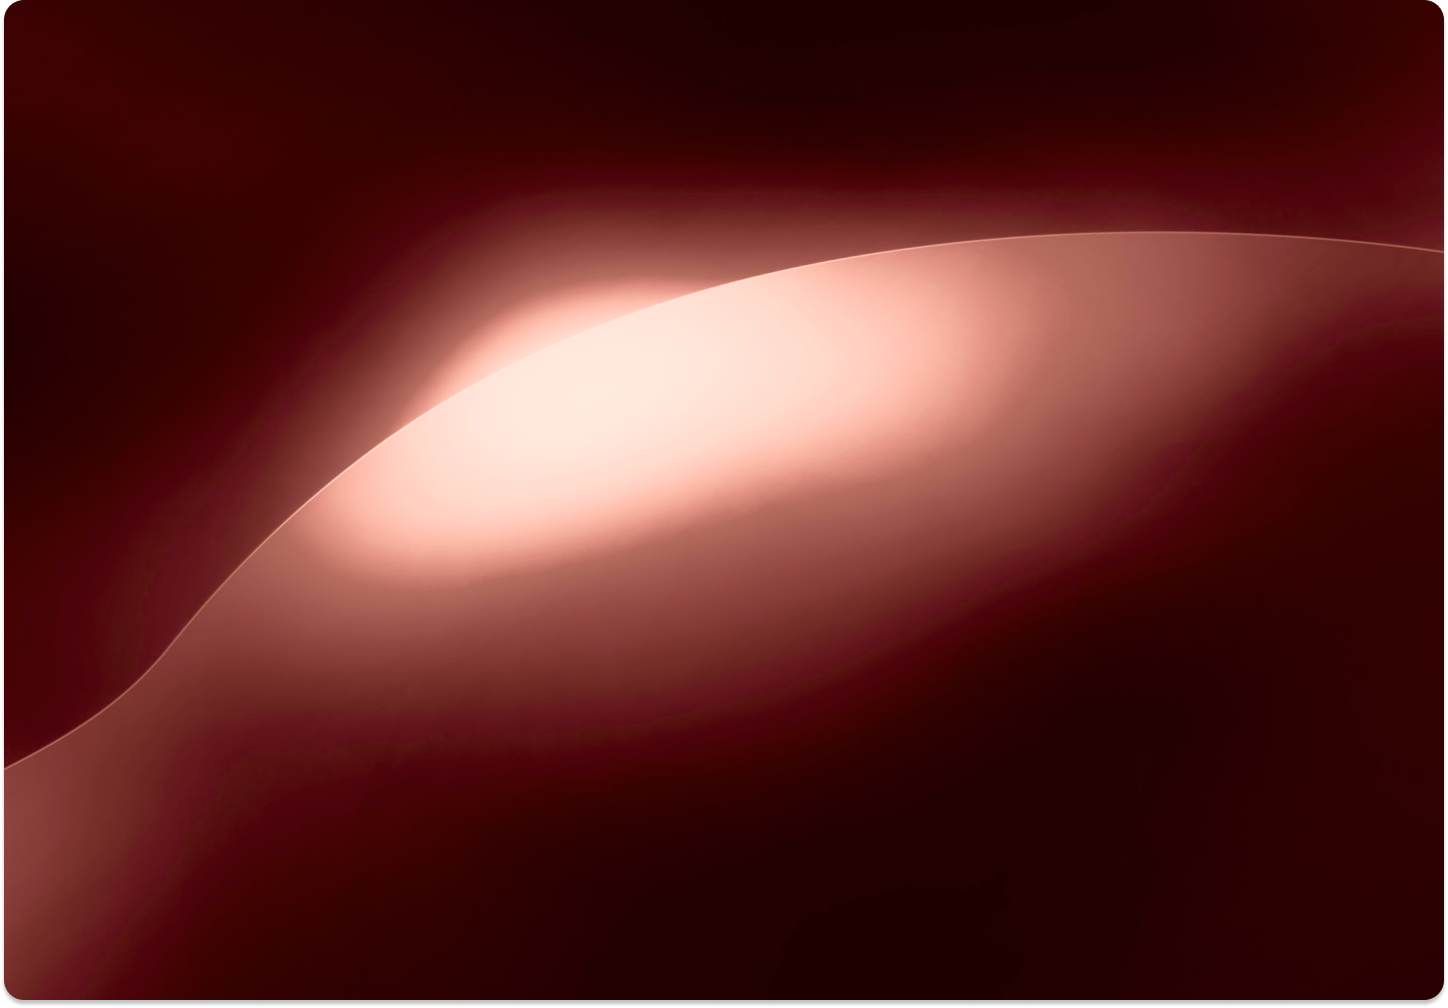
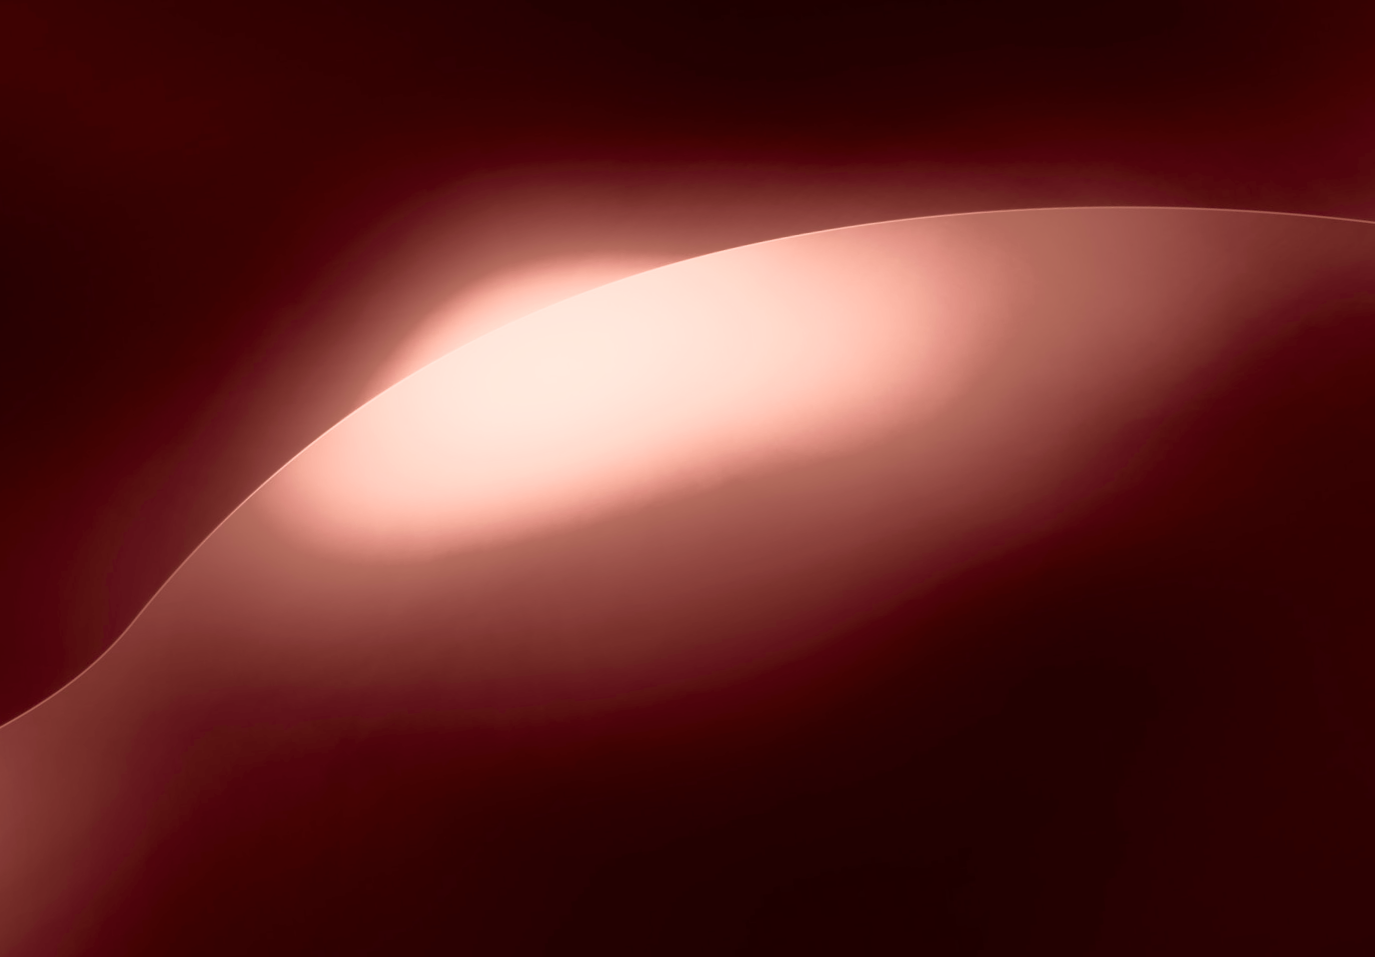
Main Menu layout

diff --git a/renderer/mainMenuWin/mainMenuWindow.html b/renderer/mainMenuWin/mainMenuWindow.html
@@ -3,7 +3,7 @@
 <head>
     <meta charset="UTF-8">
     <meta name="viewport" content="width=device-width, initial-scale=1.0">
-    <title>Document</title>
+    <title>Valorant Profiler</title>
 
     <link rel="stylesheet" href="./style.css">
     <script src="./renderer.js" defer></script>
@@ -14,9 +14,43 @@
 
 </head>
 <body>
-    <div class="drag-area"></div>
-    <div class="bg-container">
-        <img src="./imgs/bg-mm.png" alt="">
-    </div>
+    <nav>
+        <ul class="nav-items">
+            <li class="home-btn">
+                <svg width="32" height="32" viewBox="0 0 16 18" fill="none" xmlns="http://www.w3.org/2000/svg">
+                    <path d="M1.5 17.9995C1.08333 17.9995 0.729167 17.8537 0.4375 17.562C0.145833 17.2703 0 16.9162 0 16.4995V6.74951C0 6.51618 0.0541666 6.29118 0.1625 6.07451C0.270833 5.85784 0.416667 5.68284 0.6 5.54951L7.1 0.674512C7.23333 0.574512 7.375 0.499512 7.525 0.449512C7.675 0.399512 7.83333 0.374512 8 0.374512C8.16667 0.374512 8.325 0.399512 8.475 0.449512C8.625 0.499512 8.76667 0.574512 8.9 0.674512L15.4 5.54951C15.5833 5.68284 15.7292 5.85784 15.8375 6.07451C15.9458 6.29118 16 6.51618 16 6.74951V16.4995C16 16.9162 15.8542 17.2703 15.5625 17.562C15.2708 17.8537 14.9167 17.9995 14.5 17.9995H10V10.9995H6V17.9995H1.5Z" fill="white"/>
+                </svg>                    
+            </li>
+            <li class="profile-btn">
+                <svg width="32" height="32" viewBox="0 0 16 16" fill="none" xmlns="http://www.w3.org/2000/svg">
+                    <path d="M8 7.97559C6.9 7.97559 6 7.62559 5.3 6.92559C4.6 6.22559 4.25 5.32559 4.25 4.22559C4.25 3.12559 4.6 2.22559 5.3 1.52559C6 0.825586 6.9 0.475586 8 0.475586C9.1 0.475586 10 0.825586 10.7 1.52559C11.4 2.22559 11.75 3.12559 11.75 4.22559C11.75 5.32559 11.4 6.22559 10.7 6.92559C10 7.62559 9.1 7.97559 8 7.97559ZM0 16.0006V13.6506C0 13.0173 0.158333 12.4756 0.475 12.0256C0.791666 11.5756 1.2 11.2339 1.7 11.0006C2.81667 10.5006 3.8875 10.1256 4.9125 9.87558C5.9375 9.62558 6.96667 9.50058 8 9.50058C9.03333 9.50058 10.0583 9.62975 11.075 9.88809C12.0917 10.1464 13.1583 10.5173 14.275 11.0006C14.7917 11.2339 15.2083 11.5756 15.525 12.0256C15.8417 12.4756 16 13.0173 16 13.6506V16.0006H0Z" fill="#D1D1D1"/>
+                </svg>
+            </li>
+            <li class="stats-btn">
+                <svg width="32" height="32" viewBox="0 0 18 18" fill="none" xmlns="http://www.w3.org/2000/svg">
+                    <path d="M4.85 14.075C5.06667 14.075 5.24583 14.0042 5.3875 13.8625C5.52917 13.7208 5.6 13.5417 5.6 13.325V7.95C5.6 7.73333 5.52917 7.55417 5.3875 7.4125C5.24583 7.27083 5.06667 7.2 4.85 7.2C4.63333 7.2 4.45417 7.27083 4.3125 7.4125C4.17083 7.55417 4.1 7.73333 4.1 7.95V13.325C4.1 13.5417 4.17083 13.7208 4.3125 13.8625C4.45417 14.0042 4.63333 14.075 4.85 14.075ZM9 14.075C9.21667 14.075 9.39583 14.0042 9.5375 13.8625C9.67917 13.7208 9.75 13.5417 9.75 13.325V4.675C9.75 4.45833 9.67917 4.27917 9.5375 4.1375C9.39583 3.99583 9.21667 3.925 9 3.925C8.78333 3.925 8.60417 3.99583 8.4625 4.1375C8.32083 4.27917 8.25 4.45833 8.25 4.675V13.325C8.25 13.5417 8.32083 13.7208 8.4625 13.8625C8.60417 14.0042 8.78333 14.075 9 14.075ZM13.15 14.075C13.3667 14.075 13.5458 14.0042 13.6875 13.8625C13.8292 13.7208 13.9 13.5417 13.9 13.325V11.125C13.9 10.9083 13.8292 10.7292 13.6875 10.5875C13.5458 10.4458 13.3667 10.375 13.15 10.375C12.9333 10.375 12.7542 10.4458 12.6125 10.5875C12.4708 10.7292 12.4 10.9083 12.4 11.125V13.325C12.4 13.5417 12.4708 13.7208 12.6125 13.8625C12.7542 14.0042 12.9333 14.075 13.15 14.075ZM1.5 18C1.1 18 0.75 17.85 0.45 17.55C0.15 17.25 0 16.9 0 16.5V1.5C0 1.1 0.15 0.75 0.45 0.45C0.75 0.15 1.1 0 1.5 0H16.5C16.9 0 17.25 0.15 17.55 0.45C17.85 0.75 18 1.1 18 1.5V16.5C18 16.9 17.85 17.25 17.55 17.55C17.25 17.85 16.9 18 16.5 18H1.5Z" fill="#D1D1D1"/>
+                </svg>
+            </li>
+            <li class="search-btn">
+                <svg width="32" height="32" viewBox="0 0 20 20" fill="none" xmlns="http://www.w3.org/2000/svg">
+                    <path d="M19.4297 17.8918L15.7475 14.2205C16.9355 12.707 17.5801 10.838 17.5778 8.91388C17.5778 7.20033 17.0696 5.52525 16.1176 4.10049C15.1656 2.67572 13.8125 1.56525 12.2294 0.909502C10.6463 0.253754 8.90427 0.0821803 7.22364 0.416478C5.54301 0.750775 3.99926 1.57593 2.78759 2.78759C1.57593 3.99926 0.750775 5.54301 0.416478 7.22364C0.0821803 8.90427 0.253754 10.6463 0.909502 12.2294C1.56525 13.8125 2.67572 15.1656 4.10049 16.1176C5.52525 17.0696 7.20033 17.5778 8.91388 17.5778C10.838 17.5801 12.707 16.9355 14.2205 15.7475L17.8918 19.4297C17.9925 19.5312 18.1123 19.6117 18.2442 19.6667C18.3762 19.7217 18.5178 19.75 18.6607 19.75C18.8037 19.75 18.9453 19.7217 19.0772 19.6667C19.2092 19.6117 19.329 19.5312 19.4297 19.4297C19.5312 19.329 19.6117 19.2092 19.6667 19.0772C19.7217 18.9453 19.75 18.8037 19.75 18.6607C19.75 18.5178 19.7217 18.3762 19.6667 18.2442C19.6117 18.1123 19.5312 17.9925 19.4297 17.8918ZM2.41597 8.91388C2.41597 7.62871 2.79707 6.37241 3.51107 5.30384C4.22507 4.23526 5.2399 3.40241 6.42724 2.9106C7.61457 2.41879 8.92109 2.2901 10.1816 2.54083C11.442 2.79155 12.5998 3.41042 13.5086 4.31917C14.4173 5.22791 15.0362 6.38573 15.2869 7.6462C15.5377 8.90667 15.409 10.2132 14.9172 11.4005C14.4254 12.5879 13.5925 13.6027 12.5239 14.3167C11.4553 15.0307 10.199 15.4118 8.91388 15.4118C7.19053 15.4118 5.53776 14.7272 4.31917 13.5086C3.10057 12.29 2.41597 10.6372 2.41597 8.91388Z" fill="#D1D1D1"/>
+                </svg>
+            </li>
+            <li class="favorites-btn">
+                <svg width="32" height="32" viewBox="0 0 18 17" fill="none" xmlns="http://www.w3.org/2000/svg">
+                    <path d="M8.99992 13.2526L13.759 15.7188L12.8501 10.4952L16.7003 6.79589L11.3795 6.03378L8.99992 1.28123L6.62037 6.03378L1.29953 6.79589L5.14972 10.4952L4.24082 15.7188L8.99992 13.2526ZM4.84554 16.8526C4.21027 17.1818 3.42454 16.9411 3.09056 16.3149C2.95757 16.0655 2.91168 15.7799 2.95999 15.5023L3.7534 10.9424L0.392443 7.71316C-0.121499 7.21935 -0.132015 6.40837 0.368955 5.90177C0.568444 5.70005 0.829834 5.56877 1.11266 5.52826L5.75739 4.86299L7.83458 0.714329C8.15222 0.0799359 8.93145 -0.180531 9.57504 0.132561C9.83133 0.257236 10.0388 0.461711 10.1652 0.714329L12.2424 4.86299L16.8872 5.52826C17.5974 5.62999 18.0895 6.27999 17.9863 6.98009C17.9452 7.25887 17.812 7.51652 17.6074 7.71316L14.2464 10.9424L15.0398 15.5023C15.1612 16.1995 14.6861 16.8617 13.9787 16.9813C13.697 17.0289 13.4073 16.9837 13.1543 16.8526L8.99992 14.6997L4.84554 16.8526Z" fill="#D1D1D1"/>
+                    <path d="M4.5 11.3333C4.33333 12.716 4 15.5852 4 16L9.5 13.9259L14 16L13.5 10.5L17 6.66667L11.5 5.5L9 1L6 6L1 6.66667L4.5 11.3333Z" fill="#D1D1D1"/>
+                </svg>
+            </li>
+        </ul>
+        <div class="settings-btn">
+            <svg width="32" height="32" viewBox="0 0 23 25" fill="none" xmlns="http://www.w3.org/2000/svg">
+                <path d="M0.0344022 8.65098C0.557842 6.97137 1.4201 5.42961 2.55784 4.123C2.75022 3.90205 3.05206 3.8233 3.3223 3.92356L6.04126 4.93223C6.7784 5.20555 7.58952 4.80711 7.85294 4.04229C7.87884 3.96708 7.8988 3.88982 7.91258 3.81138L8.43058 0.861371C8.48208 0.568065 8.6992 0.33605 8.98026 0.273966C9.80262 0.0923641 10.6458 0 11.5 0C12.3537 0 13.1964 0.0922599 14.0182 0.273633C14.2992 0.335654 14.5163 0.567523 14.5679 0.860725L15.0874 3.81125C15.2278 4.61025 15.9659 5.13984 16.7361 4.99415C16.8119 4.97981 16.8863 4.95912 16.9587 4.93227L19.6777 3.92356C19.9479 3.8233 20.2497 3.90205 20.4421 4.123C21.5799 5.42961 22.4421 6.97137 22.9657 8.65098C23.0539 8.93432 22.9687 9.24496 22.7499 9.4377L20.5461 11.379C19.9495 11.9047 19.8765 12.8327 20.3831 13.4519C20.4329 13.5127 20.4875 13.5693 20.5461 13.6209L22.7499 15.5623C22.9687 15.755 23.0539 16.0657 22.9657 16.349C22.4421 18.0287 21.5799 19.5705 20.4421 20.877C20.2497 21.0979 19.9479 21.1766 19.6777 21.0764L16.9587 20.0677C16.2217 19.7945 15.4105 20.193 15.1471 20.9576C15.1212 21.0328 15.1012 21.1102 15.0874 21.1889L14.5679 24.1393C14.5163 24.4325 14.2992 24.6643 14.0182 24.7264C13.1964 24.9077 12.3537 25 11.5 25C10.6458 25 9.80262 24.9077 8.98026 24.726C8.6992 24.6638 8.48208 24.4319 8.43058 24.1387L7.9126 21.1887C7.77216 20.3897 7.03404 19.8602 6.26394 20.0058C6.1882 20.0202 6.11374 20.0408 6.04138 20.0677L3.3223 21.0764C3.05206 21.1766 2.75022 21.0979 2.55784 20.877C1.4201 19.5705 0.557842 18.0287 0.0344022 16.349C-0.0538978 16.0657 0.0312418 15.755 0.250062 15.5623L2.45386 13.621C3.05056 13.0953 3.12354 12.1672 2.61688 11.5481C2.56706 11.4873 2.51254 11.4307 2.45388 11.379L0.250062 9.4377C0.0312418 9.24496 -0.0538978 8.93432 0.0344022 8.65098ZM7.99976 12.4999C7.99976 14.5141 9.56676 16.1469 11.4998 16.1469C13.4328 16.1469 14.9998 14.5141 14.9998 12.4999C14.9998 10.4857 13.4328 8.85281 11.4998 8.85281C9.56676 8.85281 7.99976 10.4857 7.99976 12.4999Z" fill="#D1D1D1"/>
+            </svg>                
+        </div>
+    </nav>
+    <section class="content-section">
+        
+    </section>
 </body>
 </html>

diff --git a/main.js b/main.js
@@ -24,21 +24,35 @@ function createLoginWindow() {
         icon: path.join(__dirname, 'renderer/logos/logo.ico'),
     });
 
-    winLogin.webContents.openDevTools();
+    // winLogin.webContents.openDevTools();
     winLogin.loadFile('./renderer/loginWin/loginWindow.html');
 }
 
 function createMainWindow() {
     winMain = new BrowserWindow({
-        fullscreen: true,
+        webPreferences: {
+            nodeIntegration: true,
+            contextIsolation: true,
+            preload: path.join(__dirname, 'preload.js')
+        },
+        titleBarStyle: 'hidden',
+        titleBarOverlay: {
+            color: '#000',
+            symbolColor: '#FFF',
+            height: 30
+        },
+        maximizable: false,
+        icon: path.join(__dirname, 'renderer/logos/logo.ico'),
         show: false
     });
+    // winMain.webContents.openDevTools();
     winMain.loadFile('./renderer/mainMenuWin/mainMenuWindow.html');
 }
 
 app.whenReady().then(() => {
     createLoginWindow();
     createMainWindow();
+    // winMain.maximize();
 
     fs.access(logFile, fs.constants.F_OK, (err) => {
         if (err) {
@@ -76,6 +90,7 @@ ipcMain.on('goto:register', () => {
 
 ipcMain.on('goto:mainMenu', () => {
     winMain.show();
+    winMain.maximize();
     winLogin.close();
     // log("Redirecting to main menu")
 })

diff --git a/renderer/mainMenuWin/style.css b/renderer/mainMenuWin/style.css
@@ -1,16 +1,59 @@
-#drag-area {
-    -webkit-app-region: drag;
-    height: 30px;
-    width: 100%;
+* {
+    margin: 0;
+    padding: 0;
+    border: 0;
 }
 
-.bg-container {
+body {
+    background-image: url(./imgs/bg-mm.png);
+    width: 100vw;
+    height: 100vh;
+    background-position: center;
+    background-size: cover;
+    display: flex;
+    flex-direction: row;
+}
+
+nav {
+    position: relative;
+    height: 100vh;
+    width: 100px;
+    display: flex;
+    flex-direction: column;
+    justify-content: center;
+    border-right: 2px solid #7D91AA;
+}
+
+nav ul {
+    display: flex;
+    flex-direction: column;
+    gap: 70px;
+    list-style-type: none;
+}
+
+.settings-btn {
     position: absolute;
-    top: 0;
-    z-index: -100;
+    bottom: 50px;
+    left: 30px;
 }
 
-.bg-container img {
+.nav-items li,
+.settings-btn {
+    cursor: pointer;
+    transition: transform 0.3s ease-in-out;
+}
+
+.nav-items li:hover,
+.settings-btn:hover {
+    transform: scale(1.25);
+}
+
+/* Content Section */
+
+.content-section {
+    background-image: url(./imgs/bg-content.png);
     width: 100%;
     height: 100%;
+    background-position: center;
+    background-size: cover;
 }
